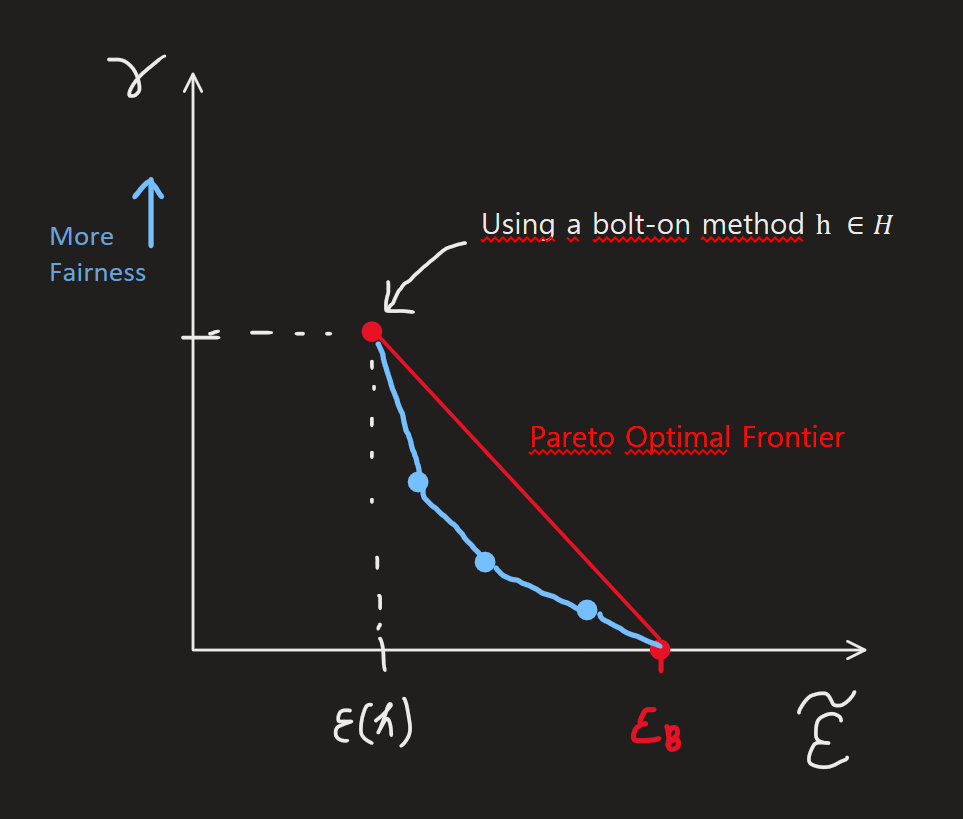
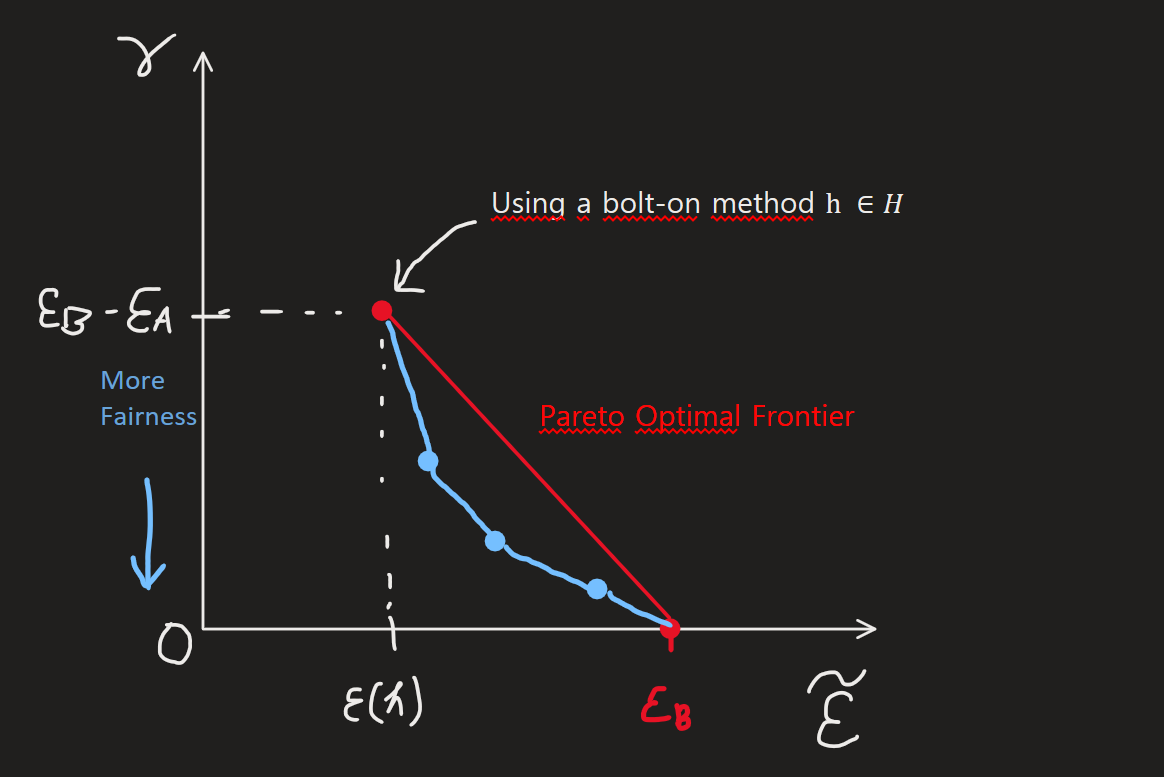
250217 covered with galbook4 :

diff --git a/2501_Spring_2025/CIS_5230/scripts/03.py b/2501_Spring_2025/CIS_5230/scripts/03.py
@@ -1,0 +1,15 @@
+
+def bolt_on_equal_test(e1, e2, filp_coin=0.5):
+    return (e2-e1) / (filp_coin - e1)
+
+def bolt_on_gamma_test(e1, e2, gamma, flip_coin=0.5):
+    return (e2-e1-gamma) / (flip_coin - e1)
+
+def bolt_on_overall_error(e1, e2, gamma, p1, flip_coin=0.5):
+    return -p1 * gamma + e2
+
+if __name__ == '__main__':
+    print(1)
+    print(bolt_on_equal_test(0.05, 0.2))
+
+    print(bolt_on_overall_error(0.05, 0.2, 0.03, 0.7))

diff --git a/2501_Spring_2025/CIS_5230/notes/03.md b/2501_Spring_2025/CIS_5230/notes/03.md
@@ -75,90 +75,135 @@ Bias Mitigation
           - But in social justice, the disclosure of some background information is regulated.
             - e.g.) Race
 
-### Sol.) How to mitigate the bias
-#### Giving randomness
-- Concept) Randomness
+#### Concept) Giving randomness
+- How)
   - Suppose we are classifying with flip coin, 0.5 probability.
     - if $`y=0`$ then false negative is 0
     - if $`y=1`$ then 0.5 chance of false negative.
       - i.e.) $`P(\hat{y}=0\vert y=1) =0.5`$
-  - e.g.) Lottery
-    - This is tolerable because people are indifferent about the result of the lottery.
-  - In CS, algorithms utilize randomness for reasons.
-    - Faster speed or security algorithms.
-    - i.e.) they are valuable.
-      - But would people allow this?
-- Application 
-  - Bolt-on Mitigation
-    - Settings)
-      - Trained classifier $`\hat{y} = h(x)`$ is given!
-        - "bolt-on" fairness, post-processing 
-          - i.e.) This model didn't care about fairness at first, and fix the fairness issue afterwards.
-      - $`A, B`$ : two groups
-        - $`\epsilon_A, \epsilon_B`$ : Given classification error of the trained model $`h`$ on $`A,B`$.
-          - e.g.) $`\epsilon_i(h) = \text{Pr}[h(x)\ne y \vert x\in i], i\in\{A,B\}`$
-      - Suppose $`\epsilon_A \lneq \epsilon_B \lneq 0.5`$
-        - $`\lneq`$ means strictly less than
-        - $`h`$ is unfair on the point that it is worse than flipping coin
-    - Proposal) Selective Randomization $`\tilde{h}(x)`$
-      - Why doing this?)
-        - The classifier was given!
-        - Only thing we can do is improving it by adding some randomness.
-      - Deriving $`\widetilde{\epsilon_A}`$ with some randomization of $`q_A`$
-        - If $`x\in B`$, use $`\hat{y} = h(x)`$
-        - If $`x\in A`$, 
-          - with the probability of $`q_A`$, $`\hat{y} = \text{flip coin}`$
-            - Here, flipping coin can achieve $`0.5`$
-          - with the probability of $`1-q_A`$, $`\hat{y} = h(x)`$
-        - Put $`\widetilde{\epsilon_A} = q_A \cdot (\text{flip coin}) + (1-q_A) \cdot h(x)`$ 
-          - Then $`\widetilde{\epsilon_A}`$ is the new error rate of using the new model.
-      - Rules)
-        - $`\epsilon_B = \widetilde{\epsilon_A}`$
-          - $`\displaystyle q_A^* = \frac{\epsilon_B - \widetilde{\epsilon_A}}{0.5-\widetilde{\epsilon_A}}`$
-            - i.e.) We may calculate $`q_A^*`$ given the performance of the existing classifier.
-        - $`\widetilde{\epsilon_A} = \epsilon_B - \gamma, \; \exists\gamma\gt0`$
-          - $`\gamma`$ denotes the fairness, allowed difference between the groups
-          - Then $`\displaystyle q_A = \frac{\epsilon_B - \gamma - \widetilde{\epsilon_A}}{0.5-\widetilde{\epsilon_A}}`$
-            - Analysis) Flipping coin less compared to the equal error case.
-    - Applying to other statistics
-      - False Positive
-        - $`\epsilon_i^{FP} = \text{Pr}_{\langle x,y\rangle\sim P}\left[ h(x)=1 \vert x\in A, y=0 \right]`$
-    - [Hardt et al.](../readings/03/04.md) in this framework.
-      |Existing Estimation / Group|A|B|
-      |:-:|:-:|:-:|
-      |$`h(x)=0`$|$`r`$|$`s`$||
-      |$`h(x)=1`$|$`t`$|$`u`$||
-      - Above is the amount of randomness we will take for each situation. (not a confusion matrix)
-      - $`\widetilde{h}(x)`$ : given $`x`$, compute $`h(x)`$ for each $`x\in A, x\in B`$
-        - With $`p\in\{r,s,t,u\}\subset[0,1]`$ (just like $`q_A`$ above)
-          - use $`h(x)`$ with the probability $`1-p`$
-          - flip coin with the probability $`p`$
-        - For each rule, we may get $`r^*,s^*,t^*,u^*`$
-    - Calculating the Overall Error
-      - Suppose the population of the subgroups are $`p_A, p_B`$.
-      - Using the $`\gamma`$ case,
-        - $`\widetilde{\epsilon_A} = \epsilon_B - \gamma`$
-      - Then the overall error goes   
+- e.g.) Lottery
+  - This is tolerable because people are indifferent about the result of the lottery.
+- In CS, algorithms utilize randomness for reasons.
+  - Faster speed or security algorithms.
+  - i.e.) they are valuable.
+    - But would people allow this?
+
+<br>
+
+### Tech.) Bolt-on Mitigation with Selective Randomness
+- Desc.)
+  - Assume the trained model is given.
+  - [Give randomness](#concept-giving-randomness) to mitigate the bias in the model and promote fairness.
+- Settings)
+  - Given trained classifier $`\hat{y} = h(x)`$ 
+    - "bolt-on" fairness, post-processing 
+      - i.e.) This model didn't care about fairness at first, and fix the fairness issue afterwards.
+  - $`A, B`$ : two subgroups
+    - Mutual exclusiveness : $`A\cap B = \emptyset, A\cup B = \mathcal{X}`$
+    - $`\epsilon_A, \epsilon_B`$ : Given classification error of the trained model $`h`$ on $`A,B`$.
+      - i.e.) $`\epsilon_i(h) = \text{Pr}[h(x)\ne y \vert x\in i], i\in\{A,B\}`$
+  - Unfairness in the existing model
+    - $`\epsilon_A \lneq \epsilon_B \lneq 0.5`$
+      - $`\lneq`$ means strictly less than
+      - $`h`$ is unfair on the point that $`\epsilon_A \lneq \epsilon_B`$
+- Proposal) Selective Randomization $`\tilde{h}(x)`$
+  - Why doing this?)
+    - The classifier was given!
+    - Only thing we can do is improving it by adding some randomness.
+  - New error rates after the randomization
+    - Subgroup $`B`$
+      - No randomness
+        - i.e.) $`x\in B`$, use $`\hat{y} = h(x)`$
+        - Thus, $`\widetilde{\epsilon_B} = \epsilon_B`$
+    - Subgroup $`A`$
+      - Apply randomness with the probability $`q_A`$.
+        - How) If $`x\in A`$, 
+          - $`\tilde{h}(x) = \begin{cases} 0.5 & \text{with prob. } q_A \\ h(x) & \text{with prob. } 1-q_A \end{cases}`$
+            - i.e.) with the probability of $`q_A\in[0,1]`$, $`\hat{y} = \text{flip coin} = 0.5`$
+      - Thus,   
         $`\begin{aligned}
-          \widetilde{\epsilon} &= p_A \widetilde{\epsilon_A}+p_B \epsilon_B \\
-          &= p_A (\epsilon_B - \gamma)+p_B \epsilon_B & (\because \widetilde{\epsilon_A} = \epsilon_B - \gamma) \\
-          &= -p_A \gamma + (p_A + p_B)\epsilon_B \\
-          &= -p_A \gamma + \epsilon_B & (\because p_A + p_B=1) \\
-        \end{aligned}`$
-      - Plotting this on the $`\tilde{\epsilon}-\gamma`$ plane
-        - Linear trade-off between $`\gamma`$ and overall error rate.
-        - This line is called the "Pareto Frontier" between overall error and fairness 
-          - Each model has different plots.
-          - If a line of a model is closer to the origin, we can achieve the pareto improvement by changing into that model.
-        - Each rule corresponds to each point on the frontier.
-        - This is a bolt-on frontier.
-          ![](../images/notes/03_002.png)
-      - Hypothetical Optimal models in a model class $`H`$
-        - Convex curve the connects the vertices.
-        - Not available in reality.
-        - $`H`$-frontier
-          ![](../images/notes/03_003.png)
-          - Some possible selections that can be pareto improved.
+          \widetilde{\epsilon_A} &= q_A \cdot (\text{flip coin}) + (1-q_A) \cdot \epsilon_A \\
+          &= q_A \cdot 0.5 + (1-q_A) \cdot \epsilon_A \\
+        \end{aligned}`$ 
+  - Fairness Rules)
+    - $`\widetilde{\epsilon_B} = \widetilde{\epsilon_A}`$ : equalizing the error rate among groups
+      - Then, we can get the optimal probability of applying randomness to the subgroup $`A`$ given the existing model $`h`$.
+        - $`\displaystyle q_A^* = \frac{\epsilon_B - \epsilon_A}{0.5-\epsilon_A}`$
+          - e.g.)
+            - $`\epsilon_A = 0.05, \epsilon_B = 0.2`$
+              - $`q^* = 0.33`$
+            - $`\epsilon_A = 0.1, \epsilon_B = 0.2`$
+              - Bigger the gap $`(\gamma)`$ between two subgroups, bigger fraction $`(q_A)`$ is needed for the equalization.
+    - $`\widetilde{\epsilon_A} = \widetilde{\epsilon_B} - \gamma, \; \exists\gamma\gt0`$ (Weakening the fairness demand)
+      - $`\gamma = \widetilde{\epsilon_B} - \widetilde{\epsilon_A} \in [0, \epsilon_B-\epsilon_A]`$ denotes the unfairness, allowed difference between the groups
+        - $`\gamma = 0`$ : absolute (maximum) fairness
+        - $`\gamma = \epsilon_B - \epsilon_A`$ : no fairness ($`\widetilde{\epsilon_A} = \epsilon_A`$)
+      - Then $`\displaystyle q^* = \frac{\epsilon_B - \gamma - \epsilon_A}{0.5-\epsilon_A}`$
+        - Analysis) Flipping coin less compared to the equal error case.
+        - $`\displaystyle \frac{\partial q^*}{\partial \gamma} \lt 0`$
+- Calculating the Overall Error
+  - Suppose the population of the subgroups are $`p_A, p_B`$.
+    - $`p_i = P_x(x\in i), i\in\{A,B\}`$
+    - $`p_A + p_B = 1`$ (normalized!)
+  - Consider the above setting that uses $`\gamma`$ to denote the unfairness,
+    - $`\widetilde{\epsilon_A} = \epsilon_B - \gamma`$
+  - Then the overall error goes   
+    $`\begin{aligned}
+      \widetilde{\epsilon} &= p_A \widetilde{\epsilon_A}+p_B \widetilde{\epsilon_B} \\
+      &= p_A (\epsilon_B - \gamma)+p_B \epsilon_B & (\because \widetilde{\epsilon_A} = \epsilon_B - \gamma, \widetilde{\epsilon_B} = \epsilon_B) \\
+      &= -p_A \gamma + (p_A + p_B)\epsilon_B \\
+      &= -p_A \gamma + \epsilon_B & (\because p_A + p_B=1) \\
+    \end{aligned}`$
+    - e.g.)
+      - $`\epsilon_A = 0.05, \epsilon_B = 0.2, p_A = 0.7, \gamma = 0.03`$
+        - $`q^* = \frac{0.2-0.05-0.03}{0.5-0.05} \approx 0.267`$
+        - $`\tilde{\epsilon} = 0.2 - 0.7\cdot0.03 = 0.179`$
+  - Plotting this on the $`\tilde{\epsilon}-\gamma`$ plane
+    - Recall that $`\begin{cases} \tilde{\epsilon} = p_A \widetilde{\epsilon_A} + p_B \widetilde{\epsilon_B} \\ \gamma = \widetilde{\epsilon_B} - \widetilde{\epsilon_A} \end{cases}`$
+    - Linear trade-off between $`\gamma`$ and overall error rate.
+    - This line is called the "Pareto Frontier" between overall error and fairness 
+      - Each model has different plots.
+      - If a line of a model is closer to the origin, we can achieve the pareto improvement by changing into that model.
+    - Each rule corresponds to each point on the frontier.
+    - This is a bolt-on frontier.
+      ![](../images/notes/03_002.png)
+      - Slope : $`\displaystyle\frac{\epsilon_B - \epsilon_A}{\epsilon_B - \tilde{\epsilon}}`$ : given by the model $`h`$
+    - Hypothetical Optimal models in a model class $`H`$
+      - Convex curve the connects the vertices.
+      - Not available in reality.
+      - $`H`$-frontier
+        ![](../images/notes/03_003.png)
+        - Some possible selections that can be pareto improved.
+- Applying to other statistics
+  - False Positive
+    - $`\epsilon_i^{FP} = \text{Pr}_{\langle x,y\rangle\sim P}\left[ h(x)=1 \vert x\in A, y=0 \right]`$
+  - False Positive in this setting $`(FP_A)`$
+    - $`FP_A(h) = P(h(x)=1\vert y=0, x\in A)`$
+    - Suppose $`FP_{A} \lneq FP_B \leq 0.5`$
+    - Same $`\tilde{h}`$ as above.
+    - Then $`\widetilde{FP_A} = (1-q)FP_A + q\cdot 0.5`$
+    - Rule : $`\widetilde{FP_A} = FP_B`$
+      - Then $`\displaystyle q^* = \frac{FP_B - FP_A}{0.5 - FP_A}`$
+      - Using this $`q^*`$, the overall error rate can be calculated as
+        - $`\tilde{\epsilon} = p_A((1-q)\epsilon_A + q\cdot 0.5) + p_B \epsilon_B = p_A \epsilon_A + p_B \epsilon_B + p_A q (0.5-\epsilon_A)`$
+        - Intuition)
+          - Trying to equalize the FP resulted in rasing the overall error rate.
+            - Recall that $`\epsilon = FP+FN`$
+          - In case we do not know the subgroup and we try to equalize the false positive rate, other measures such as **false negative rate** or overall error rate will increase.
+- [Hardt et al.](../readings/03/04.md) in this framework.
+  |Existing Estimation / Group|A|B|
+  |:-:|:-:|:-:|
+  |$`h(x)=0`$|$`r`$|$`s`$||
+  |$`h(x)=1`$|$`t`$|$`u`$||
+  - Above is the amount of randomness we will take for each situation. (not a confusion matrix)
+  - $`\widetilde{h}(x)`$ : given $`x`$, compute $`h(x)`$ for each $`x\in A, x\in B`$
+    - With $`p\in\{r,s,t,u\}\subset[0,1]`$ (just like $`q_A`$ above)
+      - use $`h(x)`$ with the probability $`1-p`$
+      - flip coin with the probability $`p`$
+    - For each rule, we may get $`r^*,s^*,t^*,u^*`$
+<br>
+
+
 
 <br><br>
 

diff --git a/2501_Spring_2025/CIT_5950/notes/04.md b/2501_Spring_2025/CIT_5950/notes/04.md
@@ -21,7 +21,7 @@
   1. CPU runs a user-level code in a [process]().
      - CPU is set to unprivileged mode
   2. Code in process invokes a **system call**.
-     - HW sets the CPU to privileged mode
+     - OS sets the CPU to privileged mode
      - Traps into the OS
      - Invokes the appropriate system call handler
        - e.g.) `glibc` for Linux
@@ -65,7 +65,9 @@
           - `EXIT_FAILURE`
             - These statuses are accessible by the parent process with `wait()` or `waitpid()`
     - made to call a program in this process with [`execvp()`](#concept-execvp)
-    - made to wait for its child process with [`wait()`](#concept-wait)
+    - made to wait for its child process with 
+      - [`wait()`](#concept-wait)
+      - [`waitpid()`]()
 
 <br>
 
@@ -75,9 +77,11 @@
     - Parent : the current process
     - Child : the newly created process from Parent
   - The new process has a separate virtual address space from the parent
-  - It returns `pid_t` (the process id of the child) in an integer type.
-    - For the parent who called `fork()`, the pid of the child is returned.
-    - For the child who is created by the `fork()` call, it returns `0`.
+  - It returns
+    - For the parent who called `fork()`, 
+      - the process id (pid) of the child in an integer type (`pid_t`).
+    - For the child who is created by the `fork()` call, 
+      - `0`.
   - The copies of the memory segments are nearly identical.
     - Even the global variable is cloned independently.
 - Example)
@@ -249,6 +253,21 @@
 <br>
 
 ### Concept) exit
+- Def.)
+  ```cpp
+  void exit(int status);
+  ```
+  - Use `<cstdlib>` constants as the input `status` value.
+    - e.g.) 
+      ```cpp
+      #include <cstdlib>
+      ...
+      // In case the process was successful. (not needed for execvp)
+      exit(EXIT_SUCCESS);
+      ...
+      // In case the process failed.
+      exit(EXIT_FAILURE);
+      ```
 - Desc.)
   - Causes the current process to exit normally.
   - Automatically called by `main()` when main returns.
@@ -258,6 +277,13 @@
 <br>
 
 ### Concept) wait
+- Def.)
+  ```cpp
+  #include <sys/types.h>
+  #include <sys/wait.h>
+
+  pid_t wait(int *wstatus);
+  ```
 - Desc.)
   - Calling process waits for any child process to change status.
   - Also cleans up the child process if it was a zombie/terminated.
@@ -268,6 +294,22 @@
       - `wait` will clean this up.
   - Gets the exit status of child process **through output parameter** `wstatus`
   - Returns process ID of child who was waited for or -1 on error
+
+<br>
+
+### Concept) waitpid
+- Def.)
+  ```cpp
+  #include <sys/types.h>
+  #include <sys/wait.h>
+  
+  pid_t waitpid(pid_t pid, int *wstatus, int options);
+  ```
+- Desc.)
+  - Enables targeting the child to wait for with the argument `pid`.
+  - `option`
+    - `0` : default
+    - `WNOHANG` : Return right away even if the child process is not finished yet.
 
 <br>
 

diff --git a/2501_Spring_2025/CIS_7000/notes/05.md b/2501_Spring_2025/CIS_7000/notes/05.md
@@ -53,13 +53,39 @@
   - $`\mathcal{A}`$ : an action space
   - $`\mathcal{X}`$ : an input space
     - i.e.) the set of all design variables
-  - $`u : \mathcal{X} \times \mathcal{Y} \rightarrow \mathbb{R}`$ : an utility function
-    - i.e.) How good $`\mathcal{D}`$ is
+  - $`\mathcal{D} = \{(x_1, y_1), \cdots, (x_n, y_n)\}`$ : dataset
+    - $`\forall i, y_i`$ is called the simple reward / simple regret.
+      - Depending on the optimization problem, if it is the maximization (minimization) problem, the known label value is called the simple reward (regret).
+  - $`u : \mathcal{X} \times \mathcal{Y} \rightarrow \mathbb{R}`$ : an utility function determining how good $`\mathcal{D}`$ is.
+    - $`u(x,y\vert\mathcal{D}) = \begin{cases} y-y^+ & \text{if } y \gt y^+ \\ 0 & \text{otherwise} \end{cases}`$
+      - where $`y^+`$ is my best observation so far.
+      - Thus, we can gain utility only if the new observation $`y`$ has new information
 
+#### Concept) Acquisition Function
+- Derivation)
+  - Let 
+    - $`x^*`$ : the next promising point  
+    - $`y^*`$ : the possible label value at $`x^*`$
+  - Then, the optimal acquisition function will be
+    - $`a(x^*, y^* \vert \mathcal{D}) = u(\mathcal{D} \cup (x^*, y^*)) - u(D)`$
+  - But, the problem is that we do not know $`y^*`$.
+  - Instead, we use
+    - $`a(x^*\vert\mathcal{D}) = \mathbb{E}_{p(y^* \vert \mathcal{D}, x^*)} [a(x^*, y^* \vert\mathcal{D})]`$
+  - How do we get $`x^*`$?
+    - $`\displaystyle x^* = \arg\max_{x} \alpha(x^*\vert \mathcal{D})`$
+- Types)
+  - Knowledge Gradient
+  - Mutual Information
+  - Thomson Parallel Sampling
 
+<br>
 
-
-
+### Concept) Expected Improvement
+- Derivation)
+  - Suppose we got $`x^*`$ using the acquisition function.
+  - What is the expected improvement that we get from that point?
+    - $`\displaystyle \mathbb{E}_{p(y^* \vert \mathcal{D}, x^*)} [a(x^*, y^* \vert\mathcal{D})] = \int_{y^+}^\infty \underbrace{(y^*-y^+)}_{\text{liner}} \underbrace{p(y^* \vert x^* \mathcal{D})}_{\text{Gaussian!}}dy^*`$
+      - This is cheap to calculate!
 
 
 

diff --git a/2501_Spring_2025/CIT_5950/main.md b/2501_Spring_2025/CIT_5950/main.md
@@ -6,7 +6,7 @@
 | 1|[Memory, Heap, Classes](notes/01.md)|- |
 | 2|[References, RAII, and C++ Concepts](notes/02.md)|- Error Reporting : `std::optional<T>` <br>- `std::vector` <br> - References <br> - C++ Classes : Destructor(dtor) (RAII), Copy Constructor(cctor)|
 | 3|[More C++](notes/03.md)|- `const` <br> - Copying <br> - Temporal Safety <br> - `std::variant`, `std::unordered_map`, `std::unordered_set` <br> - Clang-tidy|
-| 4|[OS Start: Processes & Fork](notes/04.md)|- OS, Process, `fork()`, `EXIT_SUCCESS`, `EXIT_FAILURE` <br> - Accessing C arrays : `std::array`, `std::string.c_str()` <br> - `execvp()`, `wait()`, `waitpid()`|
+| 4|[OS Start: Processes & Fork](notes/04.md)|- OS, Process, `fork()`, `EXIT_SUCCESS`, `EXIT_FAILURE`, `execvp()`, `wait()`, `waitpid()` <br> - Context Switching <br> - Accessing C arrays : `std::array`, `std::string.c_str()` |
 | 5|[](notes/05.md)|- |
 | 6|[]()|- |
 | 7|[]()|- |
